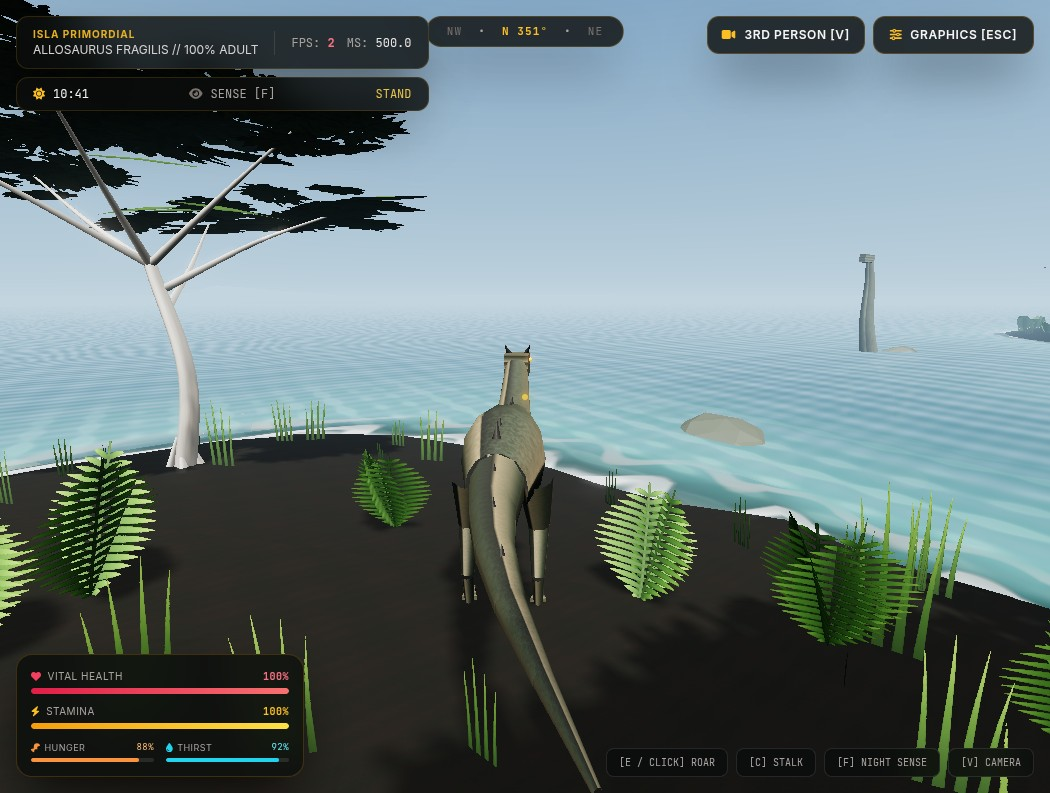
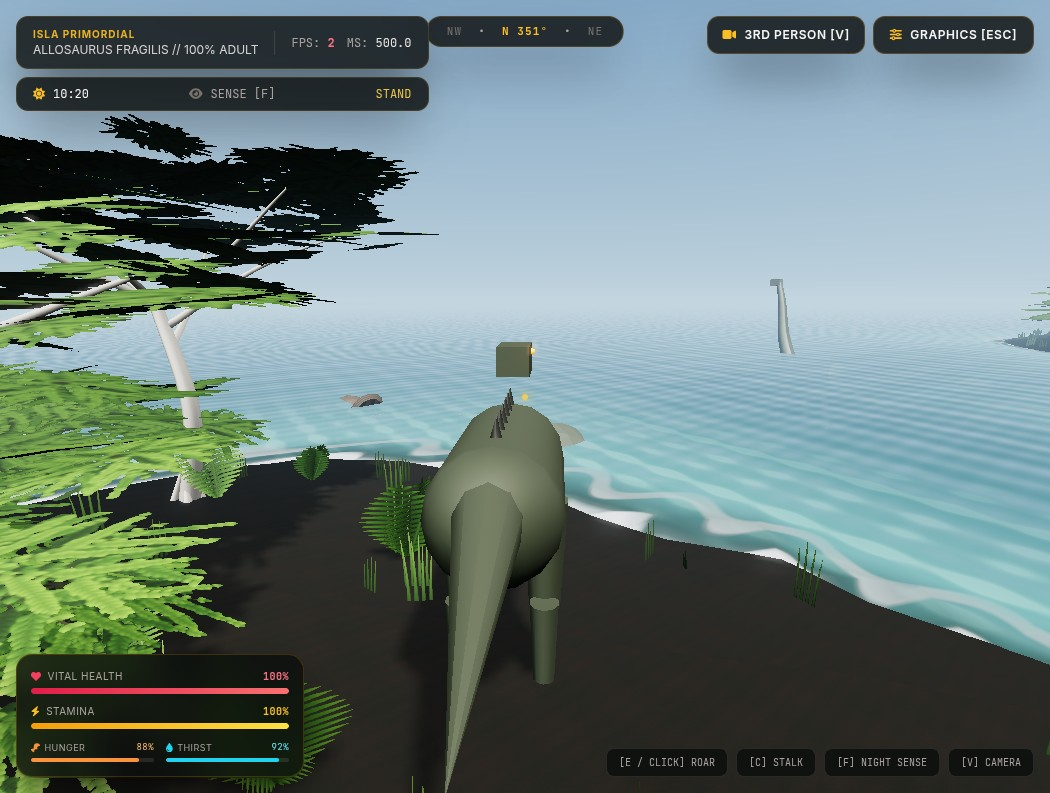
Publish static build for issue #6
Run: 43464472820
Attempt: 1
Generation: 17
Source: 0236db00d6406348bd1024bfed6109a7d2cb4278

diff --git a/index.html b/index.html
@@ -450,6 +450,135 @@
          * - Custom GLSL Fresnel / Beer-Lambert Absorption / Caustics / Shoreline Foam Water
          * - All 5 Reference Botanical Tree Archetypes + Prehistoric Ferns + Meadow Grass
          */
+        // AAA Quality Procedural PBR T-Rex Model & Skeleton (Rig) Engine
+        class HighEndTRexEngine {
+            constructor(scene) {
+                this.scene = scene;
+                this.tRexGroup = new THREE.Group();
+                this.scene.add(this.tRexGroup);
+
+                this.buildTRexModel();
+            }
+
+            buildTRexModel() {
+                const skinMaterial = new THREE.MeshStandardMaterial({
+                    color: 0x3b4232,
+                    roughness: 0.65,
+                    metalness: 0.1,
+                    bumpScale: 0.04
+                });
+
+                const scalePlateMaterial = new THREE.MeshStandardMaterial({
+                    color: 0x1c1f19,
+                    roughness: 0.5,
+                    metalness: 0.2
+                });
+
+                const toothMaterial = new THREE.MeshStandardMaterial({
+                    color: 0xf4efe2,
+                    roughness: 0.25
+                });
+
+                const eyeMaterial = new THREE.MeshStandardMaterial({
+                    color: 0xffb703,
+                    emissive: 0xf59e0b,
+                    emissiveIntensity: 0.7
+                });
+
+                const pelvis = new THREE.Group();
+                pelvis.position.y = 2.2;
+                this.tRexGroup.add(pelvis);
+
+                const torsoGeo = new THREE.CapsuleGeometry(0.65, 1.8, 12, 16);
+                torsoGeo.rotateX(Math.PI / 2);
+                const torso = new THREE.Mesh(torsoGeo, skinMaterial);
+                torso.castShadow = true;
+                torso.receiveShadow = true;
+                pelvis.add(torso);
+
+                for (let i = 0; i < 6; i++) {
+                    const plate = new THREE.Mesh(new THREE.ConeGeometry(0.06, 0.22, 5), scalePlateMaterial);
+                    plate.position.set(0, 0.75, 0.6 - i * 0.3);
+                    plate.rotation.x = -0.3;
+                    torso.add(plate);
+                }
+
+                const neck = new THREE.Group();
+                neck.position.set(0, 0.3, -1.1);
+                pelvis.add(neck);
+
+                const head = new THREE.Group();
+                head.position.set(0, 0.8, -0.6);
+                neck.add(head);
+
+                const cranium = new THREE.Mesh(new THREE.BoxGeometry(0.42, 0.38, 0.75), skinMaterial);
+                cranium.castShadow = true;
+                head.add(cranium);
+
+                for (const side of [-1, 1]) {
+                    const eye = new THREE.Mesh(new THREE.SphereGeometry(0.04, 10, 10), eyeMaterial);
+                    eye.position.set(side * 0.22, 0.08, -0.2);
+                    head.add(eye);
+                }
+
+                const lowerJaw = new THREE.Group();
+                lowerJaw.position.set(0, -0.12, -0.15);
+                head.add(lowerJaw);
+
+                const jawMesh = new THREE.Mesh(new THREE.BoxGeometry(0.34, 0.16, 0.65), skinMaterial);
+                jawMesh.position.set(0, 0, -0.2);
+                lowerJaw.add(jawMesh);
+
+                for (let t = 0; t < 5; t++) {
+                    for (const side of [-1, 1]) {
+                        const upperTooth = new THREE.Mesh(new THREE.ConeGeometry(0.015, 0.07, 4), toothMaterial);
+                        upperTooth.position.set(side * 0.18, -0.2, -0.1 - t * 0.1);
+                        upperTooth.rotation.x = Math.PI;
+                        head.add(upperTooth);
+                    }
+                }
+
+                const buildLeg = (side) => {
+                    const hip = new THREE.Group();
+                    hip.position.set(side * 0.45, -0.2, 0.1);
+                    pelvis.add(hip);
+
+                    const thigh = new THREE.Mesh(new THREE.CylinderGeometry(0.25, 0.18, 1.2, 10), skinMaterial);
+                    thigh.position.set(0, -0.6, -0.1);
+                    thigh.castShadow = true;
+                    hip.add(thigh);
+
+                    const shin = new THREE.Mesh(new THREE.CylinderGeometry(0.16, 0.11, 1.1, 10), skinMaterial);
+                    shin.position.set(0, -1.6, 0.15);
+                    shin.castShadow = true;
+                    hip.add(shin);
+
+                    return hip;
+                };
+
+                this.leftLeg = buildLeg(-1);
+                this.rightLeg = buildLeg(1);
+
+                const tail = new THREE.Group();
+                tail.position.set(0, 0.2, 1.1);
+                pelvis.add(tail);
+
+                const tailMesh = new THREE.Mesh(new THREE.ConeGeometry(0.35, 2.5, 10), skinMaterial);
+                tailMesh.rotation.x = Math.PI * 0.55;
+                tailMesh.position.set(0, -0.2, 1.2);
+                tailMesh.castShadow = true;
+                tail.add(tailMesh);
+
+                this.rig = { pelvis, neck, head, lowerJaw, tail, torso };
+            }
+
+            update(time) {
+                this.rig.pelvis.position.y = 2.2 + Math.sin(time * 3) * 0.04;
+                this.rig.tail.rotation.y = Math.sin(time * 2) * 0.08;
+                this.rig.lowerJaw.rotation.x = 0.1 + Math.sin(time * 4) * 0.15;
+            }
+        }
+
         class IslaPrimordialEngine {
             constructor() {
                 this.container = document.getElementById('canvas-container');
@@ -483,7 +612,7 @@
                     camYaw: 0.15,
                     camPitch: 0.18,
                     bodyYaw: 0.15,
-                    hipHeight: 1.48,
+                    hipHeight: 2.2,
                     walkSpeed: 5.8,
                     sprintSpeed: 12.6,
                     crouchSpeed: 3.1,
@@ -515,7 +644,9 @@
                 this.initSceneAndEnvironment();
                 this.generateProceduralTextures();
                 this.buildTerrainAndWater();
-                this.buildPlayableTheropod();
+                this.trexEngine = new HighEndTRexEngine(this.scene);
+                this.dinoRoot = this.trexEngine.tRexGroup;
+                this.theropodRig = this.trexEngine.rig;
                 this.spawnDinosaurHerds();
                 this.generateBotanicalTrees();
                 this.generatePrehistoricFloraAndRocks();
@@ -2954,63 +3085,22 @@
                 const cardinal = dirs[Math.round(deg / 45) % 8];
                 document.getElementById('compass-heading').textContent = `${cardinal} ${String(deg).padStart(3, '0')}°`;
 
-                // Articulated Digitigrade Stride, Crouch, Tail Sway & Roar Animation
+                // AAA T-Rex Rig Animation + Roar
                 const rig = this.theropodRig;
-                const crouchDrop = this.dino.isCrouching ? 0.32 : 0.0;
-                const strideFreq = horizSpeed > 0.4 ? (1.25 + horizSpeed * 0.45) : 0;
-
-                if (this.dino.isGrounded && horizSpeed > 0.4) {
-                    this.dino.strideTimer += dt * strideFreq * Math.PI;
-                    const sL = Math.sin(this.dino.strideTimer);
-                    const sR = Math.sin(this.dino.strideTimer + Math.PI);
-                    const amp = Math.min(0.75, 0.25 + horizSpeed * 0.045);
-
-                    // Left Hind Leg Kinematics
-                    rig.leftLeg.hip.rotation.x = sL * amp;
-                    rig.leftLeg.knee.rotation.x = Math.max(0, -sL) * amp * 0.95;
-                    rig.leftLeg.ankle.rotation.x = -Math.max(0, -sL) * amp * 0.65;
-
-                    // Right Hind Leg Kinematics
-                    rig.rightLeg.hip.rotation.x = sR * amp;
-                    rig.rightLeg.knee.rotation.x = Math.max(0, -sR) * amp * 0.95;
-                    rig.rightLeg.ankle.rotation.x = -Math.max(0, -sR) * amp * 0.65;
-
-                    // Pelvis vertical stride bounce & forward sprint pitch
-                    rig.pelvis.position.y = (this.dino.hipHeight - crouchDrop) + Math.abs(Math.cos(this.dino.strideTimer)) * 0.09;
-                    rig.torso.rotation.x = THREE.MathUtils.lerp(rig.torso.rotation.x, horizSpeed > 8 ? -0.18 : -0.06, dt * 8);
-                } else {
-                    rig.leftLeg.hip.rotation.x = THREE.MathUtils.lerp(rig.leftLeg.hip.rotation.x, this.dino.isCrouching ? 0.35 : 0, dt * 8);
-                    rig.rightLeg.hip.rotation.x = THREE.MathUtils.lerp(rig.rightLeg.hip.rotation.x, this.dino.isCrouching ? 0.35 : 0, dt * 8);
-                    rig.leftLeg.knee.rotation.x = THREE.MathUtils.lerp(rig.leftLeg.knee.rotation.x, this.dino.isCrouching ? 0.55 : 0, dt * 8);
-                    rig.rightLeg.knee.rotation.x = THREE.MathUtils.lerp(rig.rightLeg.knee.rotation.x, this.dino.isCrouching ? 0.55 : 0, dt * 8);
-                    rig.leftLeg.ankle.rotation.x = THREE.MathUtils.lerp(rig.leftLeg.ankle.rotation.x, this.dino.isCrouching ? -0.25 : 0, dt * 8);
-                    rig.rightLeg.ankle.rotation.x = THREE.MathUtils.lerp(rig.rightLeg.ankle.rotation.x, this.dino.isCrouching ? -0.25 : 0, dt * 8);
-
-                    const breathe = Math.sin(this.elapsedTime * 2.2) * 0.025;
-                    rig.pelvis.position.y = (this.dino.hipHeight - crouchDrop) + breathe;
-                    rig.torso.rotation.x = THREE.MathUtils.lerp(rig.torso.rotation.x, this.dino.isCrouching ? -0.15 : 0, dt * 8);
-                }
-
-                // Multi-Segment Tail Counter-Balance Sway
-                rig.tailSegments.forEach((seg, idx) => {
-                    const phase = this.elapsedTime * (2.2 + horizSpeed * 0.5) - idx * 0.45;
-                    seg.rotation.y = Math.sin(phase) * (0.06 + idx * 0.025);
-                    seg.rotation.x = Math.cos(phase * 0.5) * 0.025 + (horizSpeed > 8 ? 0.03 : 0);
-                });
-
-                // Roar Jaw Open & Head Rear Animation
                 let roarShake = 0;
+                if (this.trexEngine) this.trexEngine.update(this.elapsedTime);
+
                 if (this.dino.roarTimer > 0) {
                     this.dino.roarTimer = Math.max(0, this.dino.roarTimer - dt);
                     const roarCurve = Math.sin((1.45 - this.dino.roarTimer) / 1.45 * Math.PI);
-                    rig.lowerJaw.rotation.x = roarCurve * 0.62;
-                    rig.neck.rotation.x = roarCurve * 0.28;
-                    rig.head.rotation.x = roarCurve * 0.22;
+                    if (rig.lowerJaw) rig.lowerJaw.rotation.x = 0.1 + roarCurve * 0.62;
+                    if (rig.neck) rig.neck.rotation.x = roarCurve * 0.28;
+                    if (rig.head) rig.head.rotation.x = roarCurve * 0.22;
                     roarShake = roarCurve * 0.06 * Math.sin(this.elapsedTime * 48);
-                } else {
-                    rig.lowerJaw.rotation.x = THREE.MathUtils.lerp(rig.lowerJaw.rotation.x, 0.04, dt * 10);
-                    rig.neck.rotation.x = THREE.MathUtils.lerp(rig.neck.rotation.x, 0, dt * 8);
-                    rig.head.rotation.x = THREE.MathUtils.lerp(rig.head.rotation.x, 0, dt * 8);
+                } else if (rig.lowerJaw) {
+                    rig.lowerJaw.rotation.x = THREE.MathUtils.lerp(rig.lowerJaw.rotation.x, 0.1, dt * 10);
+                    if (rig.neck) rig.neck.rotation.x = THREE.MathUtils.lerp(rig.neck.rotation.x, 0, dt * 8);
+                    if (rig.head) rig.head.rotation.x = THREE.MathUtils.lerp(rig.head.rotation.x, 0, dt * 8);
                 }
 
                 // Primal Sense Light tracking
@@ -3020,7 +3110,7 @@
                 if (this.config.cameraMode === 'tp') {
                     const pivot = new THREE.Vector3(
                         this.dino.position.x,
-                        this.dino.position.y + (this.dino.isCrouching ? 1.45 : 1.85),
+                        this.dino.position.y + (this.dino.isCrouching ? 2.0 : 2.6),
                         this.dino.position.z
                     );
                     const dist = 5.6;
@@ -3044,7 +3134,7 @@
                     const lookAhead = new THREE.Vector3(-Math.sin(this.dino.camYaw), -Math.sin(this.dino.camPitch) * 0.4, -Math.cos(this.dino.camYaw)).multiplyScalar(4.0);
                     this.camera.lookAt(pivot.clone().add(lookAhead));
                 } else {
-                    const eyeHeight = this.dino.position.y + (this.dino.isCrouching ? 1.55 : 2.15);
+                    const eyeHeight = this.dino.position.y + (this.dino.isCrouching ? 2.0 : 2.6);
                     const forwardOffset = new THREE.Vector3(-Math.sin(this.dino.camYaw), 0, -Math.cos(this.dino.camYaw)).multiplyScalar(1.35);
                     this.camera.position.set(
                         this.dino.position.x + forwardOffset.x,
